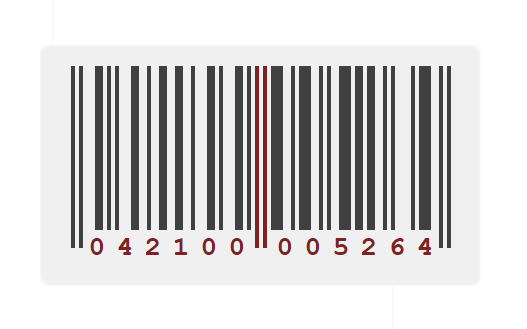
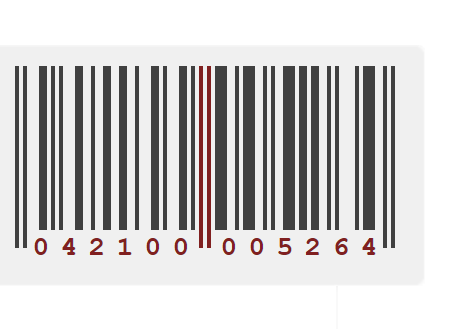
nah... still a long way ..

Changed region(s): [[0.0297, 0.1824, 0.862, 0.7903]]

diff --git a/functionality/randomization.js b/functionality/randomization.js
@@ -4,21 +4,45 @@
 //     document.querySelector(".about.panel").classList.add(bg);
 // })();
 
+var siteW = window.innerWidth;
+var siteH = window.innerHeight;
+
+TweenMax.set(".site", { perspective: 5000 });
+TweenMax.set(".container", { transformStyle: "preserve-3d",  transformOrigin: '-0% 50%' });
+TweenMax.set(".closed", { rotationY: 90, z: -siteW/2, x: siteW/2 });
+
+var timeLine = new TimelineMax();
+
 document.querySelectorAll(".navOption").forEach(option => {
     let navOption = "." + option.dataset.nav;
     option.addEventListener('click', () => {
         let open = document.getElementsByClassName("open");
+
         open[0].classList.add("closed");
         open[0].classList.remove("open");
         document.querySelector(navOption).classList.add("open");
+
+        // timeLine
+        // .to('.site', .5, { scale: 0.75, rotationZ: -5, ease: Power4.easeInOut }, "start")
+        // .to('.container', .4, { rotationY: -90, z: -siteW, ease: Power4.easeInOut }, "start+=0.7")
+        // .to('.site', .5, { rotationZ: 0, scale: 1, ease: Power4.easeInOut }, "start+=1.2");
+
+        timeLine
+        .to('.site', .5, { scale: 0.75, ease: Power4.easeInOut }, "start")
+        .to('.container', .4, { rotationY: -90, z: -siteW, ease: Power4.easeInOut }, "start+=0.7")
+        .to('.site', .5, { scale: 1, ease: Power4.easeInOut }, "start+=1.2");
     });
 });
 
 document.querySelectorAll(".back-arrow").forEach(back => {
     back.addEventListener('click', () => {
         let open = document.getElementsByClassName("open");
+
         open[0].classList.add("closed");
-        open[0].classList.remove("open");
         document.querySelector(".home").classList.add("open");
+        open[0].classList.remove("open");
+
+        timeLine.reverse();
+        timeLine = new TimelineMax();
     });
 });

diff --git a/styles/main.css b/styles/main.css
@@ -12,16 +12,12 @@
 
 /* LAYOUTS */
 
-html{
-    min-height: 100%;
-    position: relative;
-}
-
-body {
+html, body {
+    position: fixed;
     padding: 0;
     margin: 0;
     width: 100%;
-    height: auto;
+    height: 100%;
     background: #333;
 }
 
@@ -101,10 +97,9 @@ header {
 }
 
 img.barcode {
-    max-width: 250px;
+    max-width: 225px;
     height: auto;
     position: absolute;
-    left: -25px;
     bottom: 20px;
 }
 
@@ -117,7 +112,7 @@ img.gif {
 }
 
 .barcode-text {
-    width: 202px;
+    width: 203px;
     background-color: #f0f0f0;
     font-size: 22px;
     position: absolute;
@@ -168,7 +163,6 @@ header .nav li {
     transition: 300ms;
     -webkit-transition: 300ms;
 }
-
 
 .yellow-text {
     color: #ffce55;

diff --git a/app.html b/app.html
@@ -86,6 +86,7 @@
             </div>
         </div>
     <!-- scripts -->
+    <script src="https://cdnjs.cloudflare.com/ajax/libs/gsap/1.20.3/TweenMax.min.js"></script>
     <script src="./functionality/randomization.js"></script>
     </body>
 </html>
